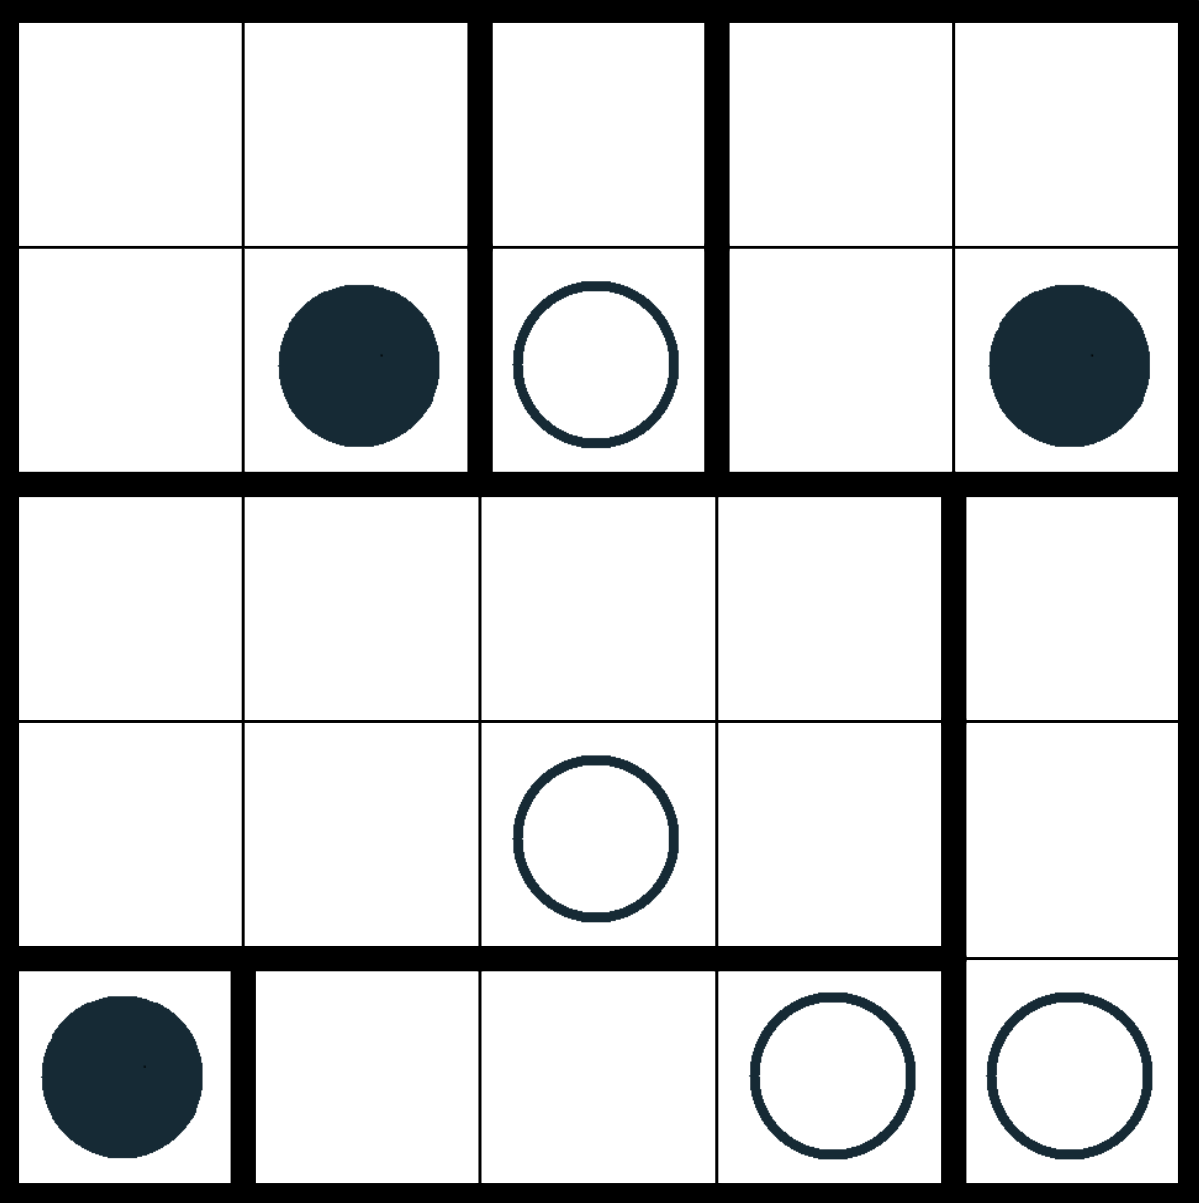
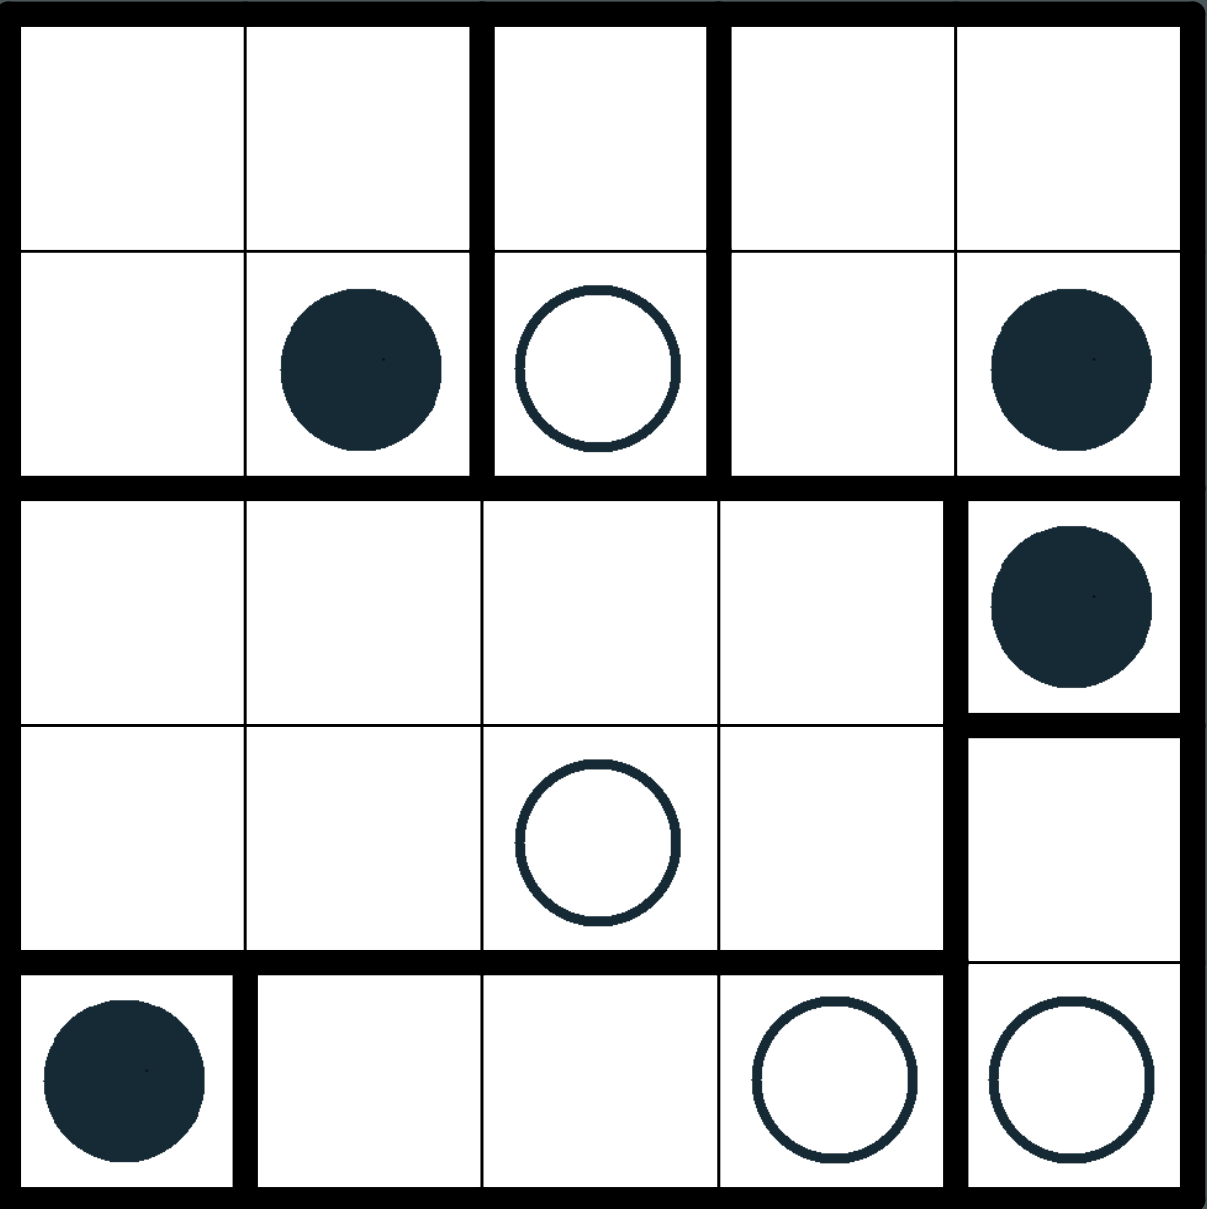
Add different size condition to Squares and Rectangles puzzle

diff --git a/puzzle_types/squares_and_rectangles.js b/puzzle_types/squares_and_rectangles.js
@@ -67,6 +67,10 @@ check:function(dimension, clues, data){
   if (res.status != "OK") {
     return res;
   }
+  var res = Checker.checkNeighbouringAreas(dim, areas);
+  if (res.status != "OK") {
+    return res;
+  }
   return {status: "OK"};
 },
 
@@ -85,6 +89,31 @@ checkAreas: function(cells, areas) {
     }
     if (clues[0].value == "white_circle" && rect.width == rect.height) {
       return {status: "Area with a white circle should not be a square", errors: areas[a]};
+    }
+  }
+  return {status: "OK"};
+},
+checkNeighbouringAreas: function(dim, areas) {
+  var map = util.create2DArray(dim.rows, dim.cols, false);
+  for (var a=0; a<areas.length; a++) {
+    var area = areas[a];
+    for (var i=0;i<area.length;i++) {
+      var pos = util.parseCoord(area[i]);
+      map[pos.y][pos.x] = a;
+    }
+  }
+  for (var y = 0; y < dim.rows; y++) {
+    for (var x = 0; x < dim.cols; x++) {
+      if (y+1 < dim.rows) {
+        if (map[y][x] != map[y+1][x] && areas[map[y][x]].length == areas[map[y+1][x]].length) {
+          return {status: "Areas of the same size shouldn't share an edge", errors: areas[map[y][x]].concat(areas[map[y+1][x]])};
+        }
+      }
+      if (x+1 < dim.cols) {
+        if (map[y][x] != map[y][x+1] && areas[map[y][x]].length == areas[map[y][x+1]].length) {
+          return {status: "Areas of the same size shouldn't share an edge", errors: areas[map[y][x]].concat(areas[map[y][x+1]])};
+        }
+      }
     }
   }
   return {status: "OK"};
